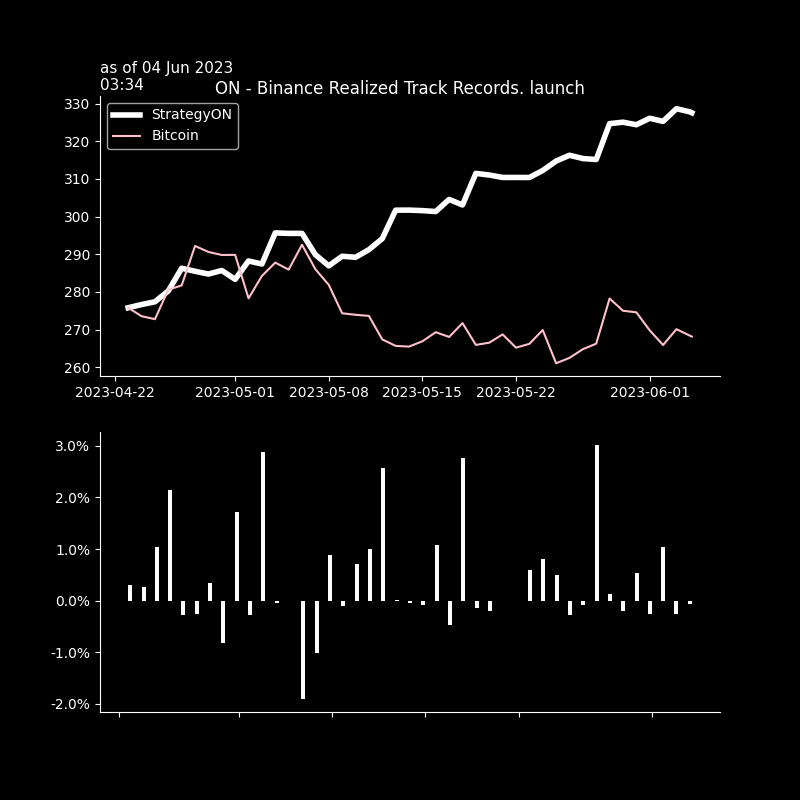
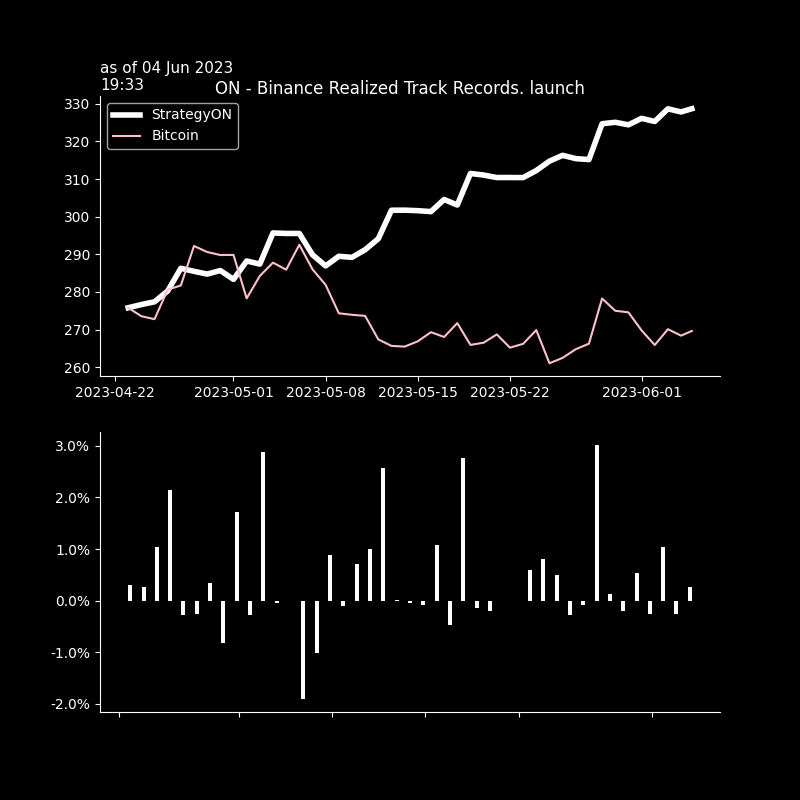
seb_commit

diff --git a/crypto/graphs/bt_trades_book.htmltrade_trades_book.html b/crypto/graphs/bt_trades_book.htmltrade_trades_book.html
@@ -38,20 +38,54 @@
   <tbody>
     <tr>
       <th>XRPUSDT</th>
-      <td>0.5222</td>
-      <td>2023-06-04 02:33:42</td>
-      <td>159.2</td>
-      <td>$83.1</td>
-      <td>$0.01</td>
+      <td>0.5346</td>
+      <td>2023-06-04 18:31:48</td>
+      <td>226.800</td>
+      <td>$121.2</td>
+      <td>$0.02</td>
       <td>1.6</td>
-      <td>-0.2</td>
-      <td>0.52195</td>
-      <td>2023-06-04 03:32</td>
+      <td>0.0</td>
+      <td>0.53495</td>
+      <td>2023-06-04 19:31</td>
+      <td>0.1</td>
+      <td>7.0</td>
+      <td>.5353</td>
+      <td>0.2</td>
+      <td>13.0</td>
+    </tr>
+    <tr>
+      <th>BTCUSDT</th>
+      <td>27188.4000</td>
+      <td>2023-06-04 18:33:20</td>
+      <td>0.006</td>
+      <td>$163.1</td>
+      <td>$0.03</td>
+      <td>1.6</td>
+      <td>0.0</td>
+      <td>27179.95000</td>
+      <td>2023-06-04 19:31</td>
+      <td>-0.1</td>
+      <td>-3.0</td>
+      <td>27187.7</td>
       <td>-0.0</td>
+      <td>-0.0</td>
+    </tr>
+    <tr>
+      <th>ETHUSDT</th>
+      <td>1902.2000</td>
+      <td>2023-06-04 18:33:01</td>
+      <td>0.086</td>
+      <td>$163.6</td>
+      <td>$0.03</td>
+      <td>1.6</td>
+      <td>0.0</td>
+      <td>1901.24500</td>
+      <td>2023-06-04 19:31</td>
+      <td>-0.1</td>
       <td>-5.0</td>
-      <td>.5221</td>
+      <td>1901.94</td>
       <td>-0.0</td>
-      <td>-2.0</td>
+      <td>-1.0</td>
     </tr>
   </tbody>
 </table>

diff --git a/crypto/graphs/bt_trades_pnlD_recap.htmltrade_trades_pnlD_recap.html b/crypto/graphs/bt_trades_pnlD_recap.htmltrade_trades_pnlD_recap.html
@@ -1,7 +1,7 @@
 <table border="1" class="dataframe">
   <thead>
     <tr style="text-align: right;">
-      <th>04 Jun 03:33</th>
+      <th>04 Jun 19:33</th>
       <th>realizedPnl</th>
       <th>PnLvsArrival</th>
       <th>PnLvsLast</th>
@@ -10,21 +10,21 @@
   <tbody>
     <tr>
       <th>in$</th>
-      <td>-0.2</td>
-      <td>-0.0</td>
-      <td>-0.0</td>
+      <td>0.0</td>
+      <td>-0.1</td>
+      <td>0.1</td>
     </tr>
     <tr>
-      <th>in bp 83 traded</th>
-      <td>-28 bp</td>
-      <td>-5 bp</td>
+      <th>in bp 447 traded</th>
+      <td>0 bp</td>
+      <td>-1 bp</td>
+      <td>3 bp</td>
+    </tr>
+    <tr>
+      <th>in bp 328 AUMs</th>
+      <td>0 bp</td>
       <td>-2 bp</td>
-    </tr>
-    <tr>
-      <th>in bp 327 AUMs</th>
-      <td>-7 bp</td>
-      <td>-1 bp</td>
-      <td>-1 bp</td>
+      <td>4 bp</td>
     </tr>
   </tbody>
 </table>

diff --git a/crypto/graphs/bt_trades_recap.htmltrade_trades_recap.html b/crypto/graphs/bt_trades_recap.htmltrade_trades_recap.html
@@ -9,23 +9,23 @@
   <tbody>
     <tr>
       <th>as of</th>
-      <td>04Jun 02:33&gt;&gt;02:33</td>
-      <td>#trades: 1</td>
+      <td>04Jun 18:31&gt;&gt;18:33</td>
+      <td>#trades: 3</td>
     </tr>
     <tr>
       <th>trade net</th>
-      <td>+83.0</td>
-      <td>+25.3%</td>
+      <td>+448.0</td>
+      <td>+136.3%</td>
     </tr>
     <tr>
       <th>trade gross</th>
-      <td>+83.0</td>
-      <td>+25.3%</td>
+      <td>+448.0</td>
+      <td>+136.3%</td>
     </tr>
     <tr>
       <th>BUY</th>
-      <td>+83.0</td>
-      <td>+25.3%</td>
+      <td>+448.0</td>
+      <td>+136.3%</td>
     </tr>
     <tr>
       <th>SELL</th>
@@ -34,7 +34,7 @@
     </tr>
     <tr>
       <th>fees</th>
-      <td>$ 0.013</td>
+      <td>$ 0.072</td>
       <td>1.6bp</td>
     </tr>
   </tbody>
